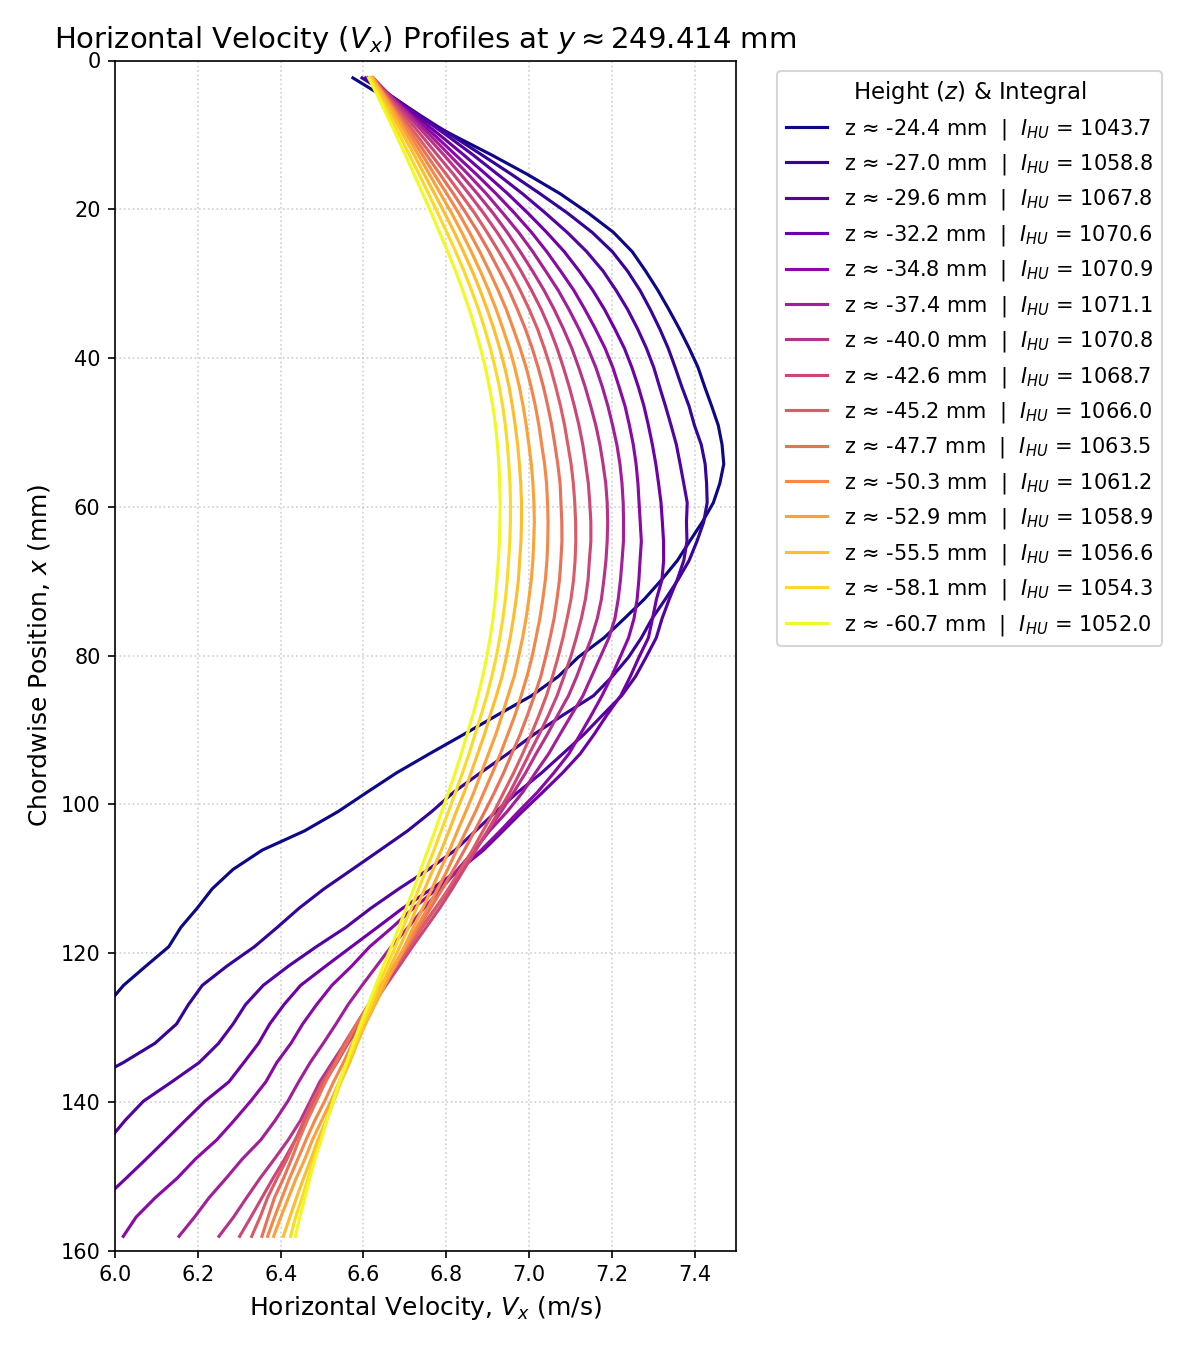
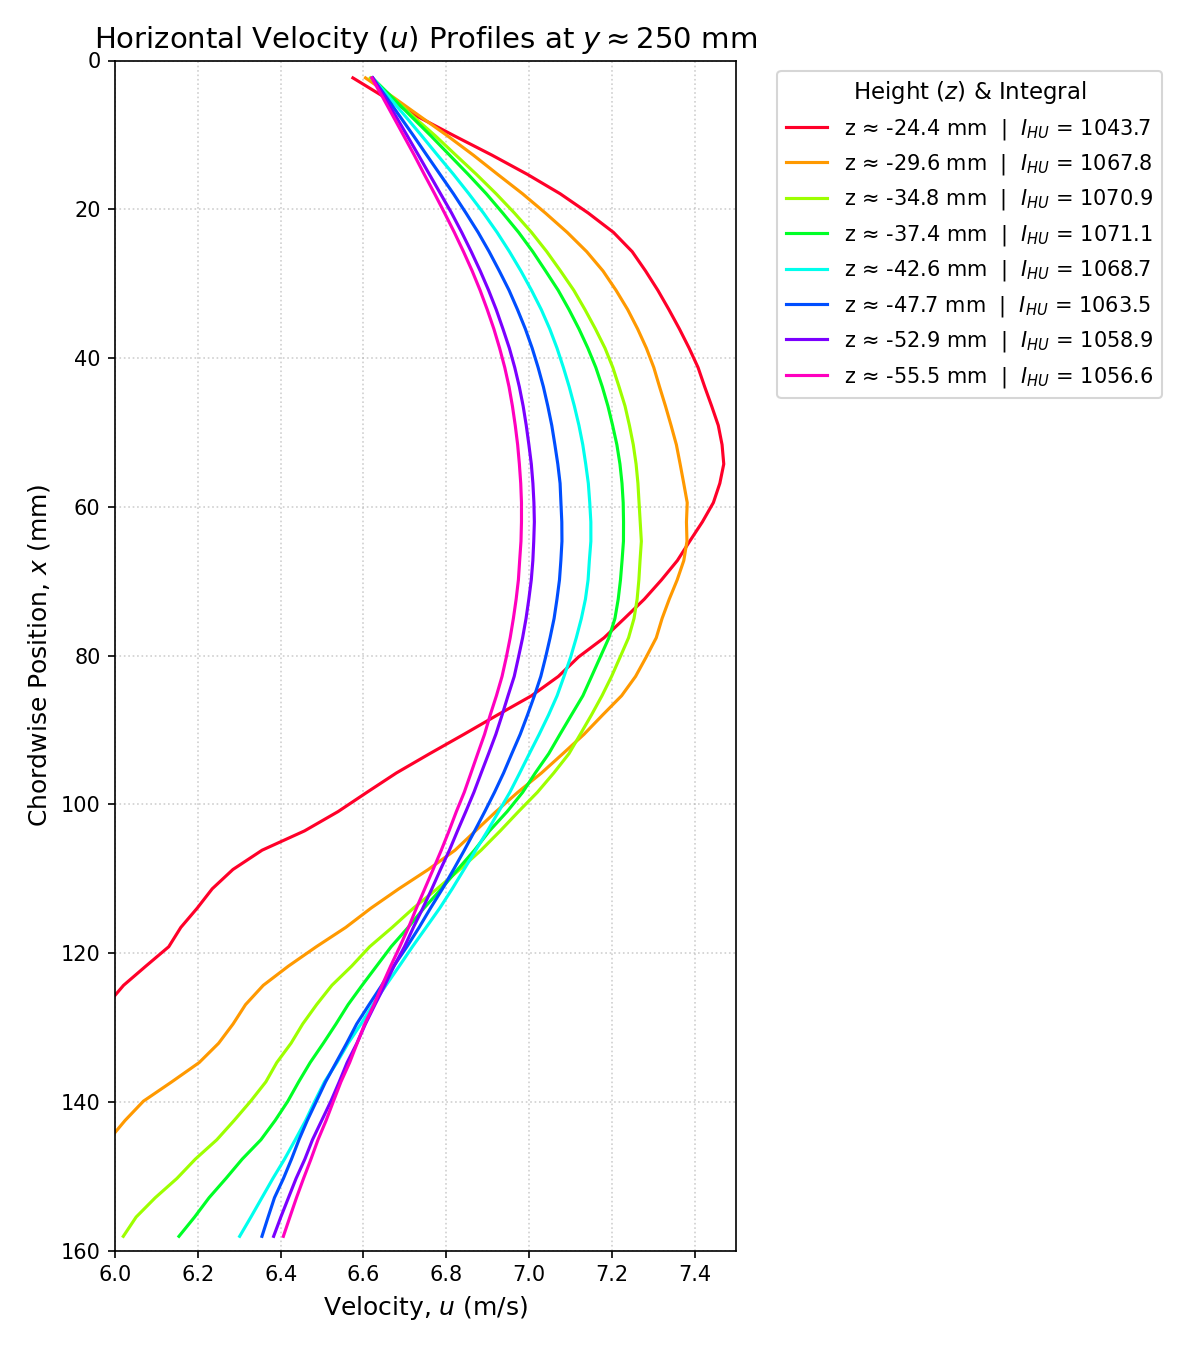
updated vorticity

diff --git a/boundarydetermination.py b/boundarydetermination.py
@@ -3,6 +3,10 @@ import numpy as np
 import matplotlib.pyplot as plt
 import matplotlib.cm as cm
 
+def get_colors(n):
+    """Returns n colors sampled evenly from gist_rainbow."""
+    return [cm.gist_rainbow(i / max(n - 1, 1)) for i in range(n)]
+
 def plot_vz_profiles(filename, y_target, x_start, x_end, x_step):
     """
     Plots Vz (Velocity w) as a function of z for a specific y-plane, 
@@ -15,22 +19,18 @@ def plot_vz_profiles(filename, y_target, x_start, x_end, x_step):
         print(f"Error: Could not find the file '{filename}'.")
         return
 
-    # Clean column names
     df.columns = df.columns.str.strip()
 
-    # Map your specific column names
     col_x = 'x [mm]'
     col_y = 'y [mm]'
     col_z = 'z [mm]'
     col_w = 'Velocity w [m/s]'
 
-    # Verify columns exist
     for col in [col_x, col_y, col_z, col_w]:
         if col not in df.columns:
             print(f"Error: Column '{col}' not found in the dataset.")
             return
 
-    # 1. Find the closest actual 'y' in the dataset
     actual_y = df.iloc[(df[col_y] - y_target).abs().argsort()[:1]][col_y].values[0]
     print(f"Target y = {y_target} mm | Using closest actual y = {actual_y} mm")
 
@@ -40,38 +40,27 @@ def plot_vz_profiles(filename, y_target, x_start, x_end, x_step):
         print("No data found for this y-plane.")
         return
 
-    # 2. Generate the list of target x values
     target_xs = np.arange(x_start, x_end + (x_step * 0.1), x_step)
+    colors = get_colors(len(target_xs))
 
-    # Setup the plot
-    plt.figure(figsize=(9, 8)) 
-    
-    colors = cm.viridis(np.linspace(0, 1, len(target_xs)))
+    plt.figure(figsize=(9, 8))
     lines_plotted = 0
 
-    # 3. Loop through x values, process data, calculate integral, and plot
     for tx, color in zip(target_xs, colors):
         actual_x = df_y.iloc[(df_y[col_x] - tx).abs().argsort()[:1]][col_x].values[0]
-        
+
         if abs(actual_x - tx) > 2.0:
             continue
 
         df_x = df_y[df_y[col_x] == actual_x]
-        
-        # Sort by z to ensure clean plotting AND accurate integration
         df_x = df_x.sort_values(by=col_z)
-        
+
         z_vals = df_x[col_z].values
         vz_vals = df_x[col_w].values
 
-        # --- CALCULATE THE LINE INTEGRAL ---
-        # np.trapz integrates the velocity (y-axis data) along the physical z-coordinates (x-axis data)
         integral_val = np.trapz(vz_vals, x=z_vals)
-        
-        # Create a detailed label showing the x-position and the calculated integral
         label_str = f"x ≈ {actual_x:.1f} mm  |  $I_{{VR}}$ = {integral_val:.2f}"
 
-        # Plot the profile
         plt.plot(vz_vals, z_vals, label=label_str, color=color, linewidth=1.5)
         lines_plotted += 1
 
@@ -79,21 +68,15 @@ def plot_vz_profiles(filename, y_target, x_start, x_end, x_step):
         print("No valid lines were found to plot within the domain.")
         return
 
-    # 4. Formatting the graph
-    plt.title(f"Vertical Velocity ($V_z$) Profiles at $y \\approx {actual_y}$ mm", fontsize=14)
-    plt.xlabel("Velocity $V_z$ (m/s)", fontsize=12)
+    plt.title(f"Vertical Velocity ($v$) Profiles at $y \\approx 250$ mm", fontsize=14)
+    plt.xlabel("Velocity $v$ (m/s)", fontsize=12)
     plt.ylabel("z (mm)", fontsize=12)
-    
     plt.axvline(0, color='black', linewidth=1, linestyle='--', alpha=0.7)
-    
-    # Place the legend outside the plot area
-    plt.legend(bbox_to_anchor=(1.05, 1), loc='upper left', fontsize=10, 
+    plt.legend(bbox_to_anchor=(1.05, 1), loc='upper left', fontsize=10,
                title="Position & Integral", title_fontsize=11)
-    
     plt.grid(True, linestyle=':', alpha=0.6)
     plt.tight_layout()
 
-    # Save and show
     output_filename = f"Vz_profiles_integrated_y{actual_y}_x{x_start}_to_{x_end}.png"
     plt.savefig(output_filename, dpi=150)
     print(f"Graph saved as: {output_filename}")
@@ -119,45 +102,32 @@ def plot_upper_boundary_profiles(filename, y_target, x_min=0.0, x_max=130.0, z_s
             print(f"Error: Column '{col}' not found in the dataset.")
             return
 
-    # 1. Find the closest actual 'y' in the dataset
     actual_y = df.iloc[(df[col_y] - y_target).abs().argsort()[:1]][col_y].values[0]
     print(f"Target y = {y_target} mm | Using closest actual y = {actual_y} mm")
 
-    # Filter dataframe to this specific y-plane
     df_y = df[df[col_y] == actual_y]
 
     if df_y.empty:
         print("No data found for this y-plane.")
         return
 
-    # 2. Generate the list of target z values
-    # We use a negative step to go from 0 down to -25
     target_zs = np.arange(z_start, z_end - (z_step * 0.1), -z_step)
+    colors = get_colors(len(target_zs))
 
-    # Setup the plot
-    plt.figure(figsize=(8, 9)) # Made taller for vertical representation
-    
-    # Use a colormap to visualize distance from the airfoil
-    colors = cm.plasma(np.linspace(0, 1, len(target_zs)))
+    plt.figure(figsize=(8, 9))
     lines_plotted = 0
 
-    # 3. Loop through z-slices, process data, and plot
     for tz, color in zip(target_zs, colors):
-        # Find closest actual z in the dataset
         actual_z = df_y.iloc[(df_y[col_z] - tz).abs().argsort()[:1]][col_z].values[0]
-        
-        # Prevent plotting if the mesh node is too far from our target step
+
         if abs(actual_z - tz) > (z_step / 2):
             continue
 
-        # Filter for this z-slice AND restrict to the x domain (0 to 130)
-        df_z = df_y[(df_y[col_z] == actual_z) & 
-                    (df_y[col_x] >= x_min) & 
+        df_z = df_y[(df_y[col_z] == actual_z) &
+                    (df_y[col_x] >= x_min) &
                     (df_y[col_x] <= x_max)]
-        
-        # Sort by x to ensure the line is drawn smoothly from front to back
         df_z = df_z.sort_values(by=col_x)
-        
+
         x_vals = df_z[col_x].values
         vx_vals = df_z[col_u].values
 
@@ -165,13 +135,9 @@ def plot_upper_boundary_profiles(filename, y_target, x_min=0.0, x_max=130.0, z_s
             print(f"Skipping z ≈ {actual_z:.1f} (Inside airfoil or insufficient data).")
             continue
 
-        #CALCULATE THE LINE INTEGRAL 
-        # Integrating Vx with respect to x
         integral_val = np.trapz(vx_vals, x=x_vals)
-        
         label_str = f"z ≈ {actual_z:.1f} mm  |  $I_{{HU}}$ = {integral_val:.1f}"
 
-        # PLOT AXES INVERTED: (Velocity on horizontal, x on vertical)
         plt.plot(vx_vals, x_vals, label=label_str, color=color, linewidth=1.5)
         lines_plotted += 1
 
@@ -179,49 +145,38 @@ def plot_upper_boundary_profiles(filename, y_target, x_min=0.0, x_max=130.0, z_s
         print("No valid lines were found to plot within the domain.")
         return
 
-    # 4. Formatting the graph
-    plt.title(f"Horizontal Velocity ($V_x$) Profiles at $y \\approx {actual_y}$ mm", fontsize=14)
-    
-    # INVERTED LABELS
-    plt.xlabel("Horizontal Velocity, $V_x$ (m/s)", fontsize=12)
+    plt.title(f"Horizontal Velocity ($u$) Profiles at $y \\approx 250$ mm", fontsize=14)
+    plt.xlabel("Velocity, $u$ (m/s)", fontsize=12)
     plt.ylabel("Chordwise Position, $x$ (mm)", fontsize=12)
-    
-    # Optional vertical line at V=0
     plt.axvline(0, color='black', linewidth=1, linestyle='--', alpha=0.7)
-    
-    # Enforce x-axis limits visually (now on the y-axis of the plot)
     plt.ylim(x_max, x_min)
-    plt.xlim(6,7.5)
-    
-    # Place the legend outside the plot area
-    plt.legend(bbox_to_anchor=(1.05, 1), loc='upper left', fontsize=10, 
+    plt.xlim(6, 7.5)
+    plt.legend(bbox_to_anchor=(1.05, 1), loc='upper left', fontsize=10,
                title="Height ($z$) & Integral", title_fontsize=11)
-    
     plt.grid(True, linestyle=':', alpha=0.6)
     plt.tight_layout()
 
-    # Save and show
     output_filename = f"Upper_Boundary_Vx_inverted_y{actual_y}_x{x_min}to{x_max}.png"
     plt.savefig(output_filename, dpi=150)
     print(f"Graph successfully saved as: {output_filename}")
-    plt.show()    
+    plt.show()
 
 if __name__ == "__main__":
     DATA_FILE = "Dataset NACA0015 Velocity and Standard deviation.csv"
-    
+
     plot_vz_profiles(
-        filename=DATA_FILE, 
-        y_target=250.0, 
-        x_start=130.0, 
-        x_end=175.0, 
-        x_step=2.5
+        filename=DATA_FILE,
+        y_target=300,
+        x_start=130.0,
+        x_end=175.0,
+        x_step=6
     )
     plot_upper_boundary_profiles(
-        filename=DATA_FILE, 
-        y_target=250.0, 
-        x_min=0.0, 
-        x_max=160.0, 
-        z_start=-25, 
-        z_end=-60.0, 
-        z_step=2.5
+        filename=DATA_FILE,
+        y_target=250,
+        x_min=0.0,
+        x_max=160.0,
+        z_start=-25,
+        z_end=-60.0,
+        z_step=4.5
     )

diff --git a/vorticity/vorticityvisualization.py b/vorticity/vorticityvisualization.py
@@ -3,15 +3,26 @@ import numpy as np
 import matplotlib.pyplot as plt
 from scipy.interpolate import griddata
 
-#  CONFIGURATION
+# =============================================================================
+# SETTINGS
+# =============================================================================
 
-# ── Vorticity dataset
-GRAD_CSV      = "gradient_results.csv"
-VORT_Y_TARGET = 250              # mm — y-slice to plot
-VORT_Z_MIN    = -50              # mm
-VORT_Z_MAX    = 50               # mm
+GRAD_CSV = "gradient_results.csv"
 
-#  LOAD DATA
+VORT_Y_TARGET = 250      # mm
+VORT_Z_MIN = -50         # mm
+VORT_Z_MAX = 50          # mm
+VORT_X_MIN = -20         # mm
+
+PERCENTILE = {
+    "omega_x": 1,
+    "omega_y": 1,
+    "omega_z": 1,
+}
+
+# =============================================================================
+# LOAD DATA
+# =============================================================================
 
 df = pd.read_csv(GRAD_CSV, skipinitialspace=True)
 df.columns = df.columns.str.strip()
@@ -20,63 +31,88 @@ col_x = 'x' if 'x' in df.columns else 'x [mm]'
 col_y = 'y' if 'y' in df.columns else 'y [mm]'
 col_z = 'z' if 'z' in df.columns else 'z [mm]'
 
-df_plot = df[np.abs(df[col_y] - VORT_Y_TARGET) <= 5.0]
-df_plot = df_plot[(df_plot[col_z] >= VORT_Z_MIN) & (df_plot[col_z] <= VORT_Z_MAX)]
+df_plot = df[np.abs(df[col_y] - VORT_Y_TARGET) <= 5]
+
+df_plot = df_plot[
+    (df_plot[col_z] >= VORT_Z_MIN) &
+    (df_plot[col_z] <= VORT_Z_MAX) &
+    (df_plot[col_x] >= VORT_X_MIN)
+]
 
 x = df_plot[col_x].values
 z = df_plot[col_z].values
 
 # =============================================================================
-#  BUILD FIGURE
+# INTERPOLATION GRID
 # =============================================================================
+
+xi = np.linspace(x.min(), x.max(), 800)
+zi = np.linspace(z.min(), z.max(), 400)
+
+Xi, Zi = np.meshgrid(xi, zi)
 
 x_range = x.max() - x.min()
 z_range = z.max() - z.min()
 
-subplot_width  = 5
+subplot_width = 5
 subplot_height = subplot_width * (z_range / x_range)
-fig_width      = subplot_width * 3 + 1
-fig_height     = max(subplot_height, 3)
 
-xi = np.linspace(x.min(), x.max(), 800)
-zi = np.linspace(z.min(), z.max(), 400)
-Xi, Zi = np.meshgrid(xi, zi)
+fig_width = subplot_width * 3 + 1
+fig_height = max(subplot_height, 4)
 
-fig, axes = plt.subplots(1, 3, figsize=(fig_width, fig_height),
-                         constrained_layout=True)
-fig.suptitle(f"Vorticity in the x-z plane (y ≈ {VORT_Y_TARGET} mm)", fontsize=14)
+cmap = plt.get_cmap("RdBu_r")
 
-cmap = plt.get_cmap("RdBu_r").copy()
+components = ["omega_x", "omega_y", "omega_z"]
+titles = [r"$\omega_x$", r"$\omega_y$", r"$\omega_z$"]
 
-for ax, col, title in zip(
-    axes,
-    ["omega_x", "omega_y", "omega_z"],
-    [r"$\omega_x$", r"$\omega_y$", r"$\omega_z$"],
-):
-    omega  = df_plot[col].values
-    p_low  = np.percentile(omega, 1)
-    p_high = np.percentile(omega, 99)
+# =============================================================================
+# FIGURE 1 → COLORBARS ON TOP
+# =============================================================================
+
+fig1, axes1 = plt.subplots(
+    1, 3,
+    figsize=(fig_width, fig_height),
+    constrained_layout=True
+)
+
+for ax, col, title in zip(axes1, components, titles):
+
+    omega = df_plot[col].values
+
+    pct = PERCENTILE[col]
+    low = np.percentile(omega, pct)
+    high = np.percentile(omega, 100 - pct)
 
     Oi = griddata((x, z), omega, (Xi, Zi), method="linear")
 
-    vmin, vmax = p_low, p_high
-    if vmin < 0 < vmax:
-        vabs = max(abs(vmin), abs(vmax))
-        vmin, vmax = -vabs, vabs
+    vmax = max(abs(low), abs(high))
+    vmin = -vmax
 
-    im = ax.pcolormesh(Xi, Zi, Oi, cmap=cmap, vmin=vmin, vmax=vmax,
-                       shading="gouraud")
+    im = ax.pcolormesh(
+        Xi, Zi, Oi,
+        cmap=cmap,
+        shading="gouraud",
+        vmin=vmin,
+        vmax=vmax
+    )
 
-    cbar = plt.colorbar(im, ax=ax, fraction=0.03, pad=0.04)
-    cbar.ax.tick_params(labelsize=8)
+    cbar = fig1.colorbar(
+        im,
+        ax=ax,
+        location="top",
+        fraction=0.05,
+        pad=0.04
+    )
+
     cbar.set_label("s⁻¹", fontsize=9)
+    cbar.ax.tick_params(labelsize=8)
 
     ax.set_title(title, fontsize=13)
     ax.set_xlabel("x (mm)")
     ax.set_ylabel("z (mm)")
-    ax.set_ylim(z.min(), z.max())
-    ax.invert_yaxis()
     ax.set_aspect("equal")
+    ax.invert_yaxis()
 
+#fig1.suptitle(f"Vorticity in x-z plane (y ≈ {VORT_Y_TARGET} mm)\nColorbars on top",fontsize=14)
 plt.savefig("vorticity_xz_plane.png", dpi=150, bbox_inches="tight")
 plt.show()